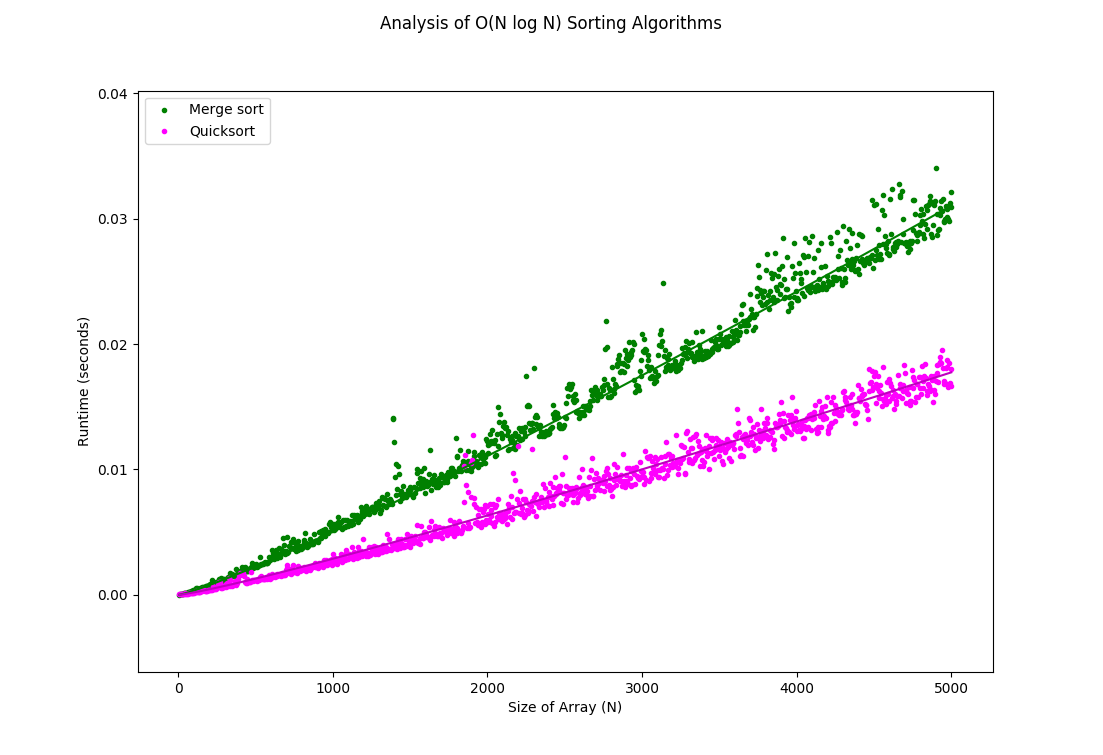
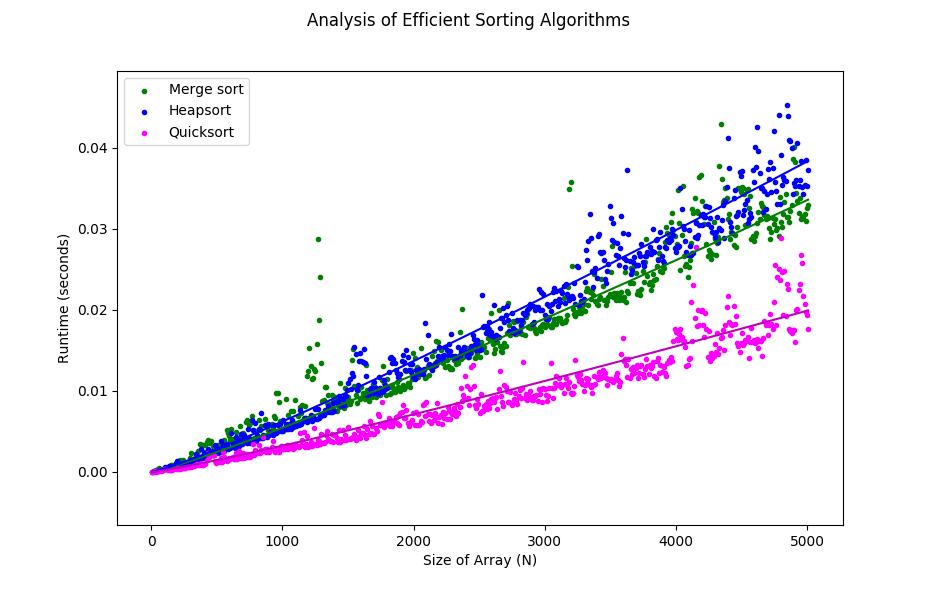
added heapsort

diff --git a/efficient_sorting_tests.py b/efficient_sorting_tests.py
@@ -1,26 +1,8 @@
 from sorting import *
 from runtime_calculator import *
 
-max_n = 500
-step = 5
-
-x, y = test_algorithm(bubble_sort, random_list, step_size=step, max_size=max_n)
-plt.scatter(x, y, c='black', label='Bubble sort', marker='.')
-runtime, func = find_best_function(x, y)
-graph_function(plt, x, func, 'k-')
-print('Bubble sort:', runtime)
-
-x, y = test_algorithm(selection_sort, random_list, step_size=step, max_size=max_n)
-plt.scatter(x, y, c='red', label='Selection sort', marker='.')
-runtime, func = find_best_function(x, y)
-graph_function(plt, x, func, 'r-')
-print('Selection sort:', runtime)
-
-x, y = test_algorithm(insertion_sort, random_list, step_size=step, max_size=max_n)
-plt.scatter(x, y, c='yellow', label='Insertion sort', marker='.')
-runtime, func = find_best_function(x, y)
-graph_function(plt, x, func, 'y-')
-print('Insertion sort:', runtime)
+max_n = 5000
+step = 9
 
 x, y = test_algorithm(merge_sort, random_list, step_size=step, max_size=max_n)
 plt.scatter(x, y, c='green', label='Merge sort', marker='.')
@@ -40,7 +22,7 @@ runtime, func = find_best_function(x, y)
 graph_function(plt, x, func, 'm-')
 print('Quicksort:', runtime)
 
-plt.suptitle('Analysis of Sorting Algorithms')
+plt.suptitle('Analysis of Efficient Sorting Algorithms')
 plt.xlabel('Size of Array (N)')
 plt.ylabel('Runtime (seconds)')
 plt.legend(loc='upper left')

diff --git a/sorting.py b/sorting.py
@@ -27,6 +27,30 @@ def insertion_sort(lst):
         lst[j] = val
 
 # =================== O(N log N) algorithms ===================
+def heapsort(lst):
+    def heapify(lst):
+        for start in reversed(range(len(lst))):
+            sink(lst, start, len(lst) - 1)
+    def sink(lst, start, end):
+        current = start
+        while current * 2 + 1 <= end:
+            left = current * 2 + 1
+            right = current * 2 + 2
+            largest = current
+            if lst[largest] < lst[left]:
+                largest = left
+            if right <= end and lst[largest] < lst[right]:
+                largest = right
+            if largest == current:
+                return
+            else:
+                lst[current], lst[largest] = lst[largest], lst[current]
+                current = largest
+    heapify(lst)
+    for i in reversed(range(len(lst))):
+        lst[i], lst[0] = lst[0], lst[i]
+        sink(lst, 0, i - 1)
+
 def merge_sort(lst):
     if len(lst) > 1:
         mid = len(lst) // 2
@@ -70,5 +94,5 @@ def quicksort(lst, begin=0, end=None):
 
 # lst = random_list(100, 1000)
 # print(lst)
-# quicksort(lst)
+# heapsort(lst)
 # print(lst)

diff --git a/README.md b/README.md
@@ -29,7 +29,7 @@ The `find_best_function` function uses several linear regression methods to find
 Some examples are given in the files [`simple_tests.py`](simple_tests.py), [`iterative_tests.py`](iterative_tests.py), [`recursive_tests.py`](recursive_tests.py), and [`sorting_tests.py`](sorting_tests.py). We'll show you an example in `sorting_tests.py`.
 
 ### Array Sorting
-Of course, no introduction to algorithmic runtime complexities would be complete without an analysis of sorting algorithms! The file [`sorting.py`](sorting.py) contains implementations of several common sorting algorithms: [bubble sort](https://en.wikipedia.org/wiki/Bubble_sort), [selection sort](https://en.wikipedia.org/wiki/Selection_sort), [insertion sort](https://en.wikipedia.org/wiki/Insertion_sort), [merge sort](https://en.wikipedia.org/wiki/Merge_sort), and [quicksort](https://en.wikipedia.org/wiki/Quicksort). The `sorting_tests.py` file tests each of these sorting algorithms, fits a curve to each of the functions, and prints out its best guess for the runtime complexity of each algorithm. Here's a graph for the runtimes for each function (graph was created using [matplotlib](https://matplotlib.org/)):
+Of course, no introduction to algorithmic runtime complexities would be complete without an analysis of sorting algorithms! The file [`sorting.py`](sorting.py) contains implementations of several common sorting algorithms: [bubble sort](https://en.wikipedia.org/wiki/Bubble_sort), [selection sort](https://en.wikipedia.org/wiki/Selection_sort), [insertion sort](https://en.wikipedia.org/wiki/Insertion_sort), [merge sort](https://en.wikipedia.org/wiki/Merge_sort), [heapsort](https://en.wikipedia.org/wiki/Heapsort), and [quicksort](https://en.wikipedia.org/wiki/Quicksort). The `sorting_tests.py` file tests each of these sorting algorithms, fits a curve to each of the functions, and prints out its best guess for the runtime complexity of each algorithm. Here's a graph for the runtimes for each function (graph was created using [matplotlib](https://matplotlib.org/)):
 
 ![Scatterplot of Sorting Algorithms](/images/sorting-graph.png)
 
@@ -43,6 +43,7 @@ Bubble sort: N^2
 Selection sort: N^2
 Insertion sort: N^2
 Merge sort: N log N
+Heapsort: N log N
 Quicksort: N log N
 ```
 This matches quite nicely with the expected average-case runtimes! Note that this method is not perfect; sometimes it might misinterpret an N log N algorithm as N, or vice versa. This is why it's better to turn to actual [algorithm analysis](https://en.wikipedia.org/wiki/Analysis_of_algorithms) methods rather than simply running an algorithm thousands of times. But it's interesting to see that the real-world data matches our expectations!
@@ -58,7 +59,7 @@ def f1(n):
     f1(n // 2)
     f1(n // 2)
 ```
-What's the runtime of this function? This is an example of an algorithm whose runtime can be solved with a recurrence relation. (There are many ways of doing this. One way is to use the [master theorem for divide-and-conquer recurrences](https://en.wikipedia.org/wiki/Master_theorem_(analysis_of_algorithms)).) As it turns out, this function has a runtime of Θ(N log N). The `find_best_function` function correctly identifies this as a linearithmic function:
+What's the runtime of this function? This is an example of an algorithm whose runtime can be solved with a recurrence relation. As it turns out, this function has a runtime of Θ(N log N). The `find_best_function` function correctly identifies this as a linearithmic function:
 
 ![Scatterplot of Recursive Function f1](/images/f1-graph.png)
 
